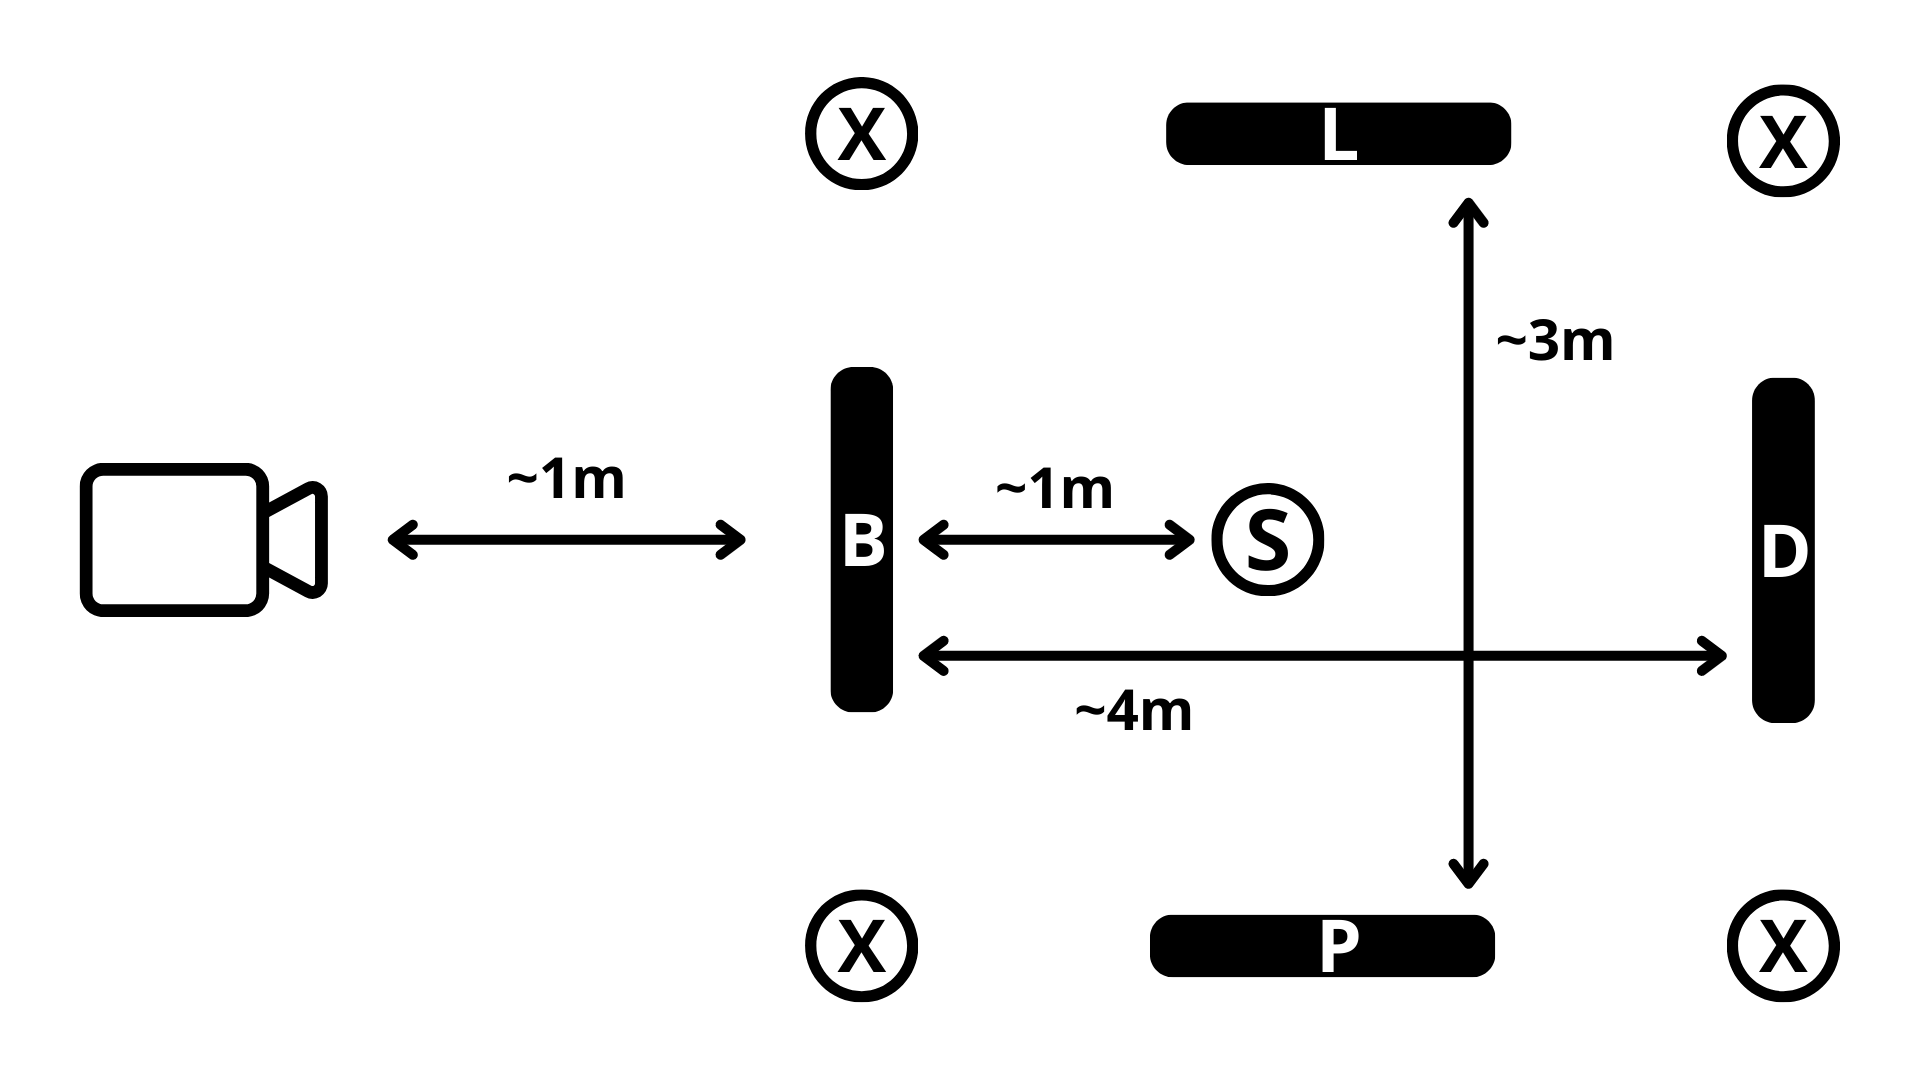
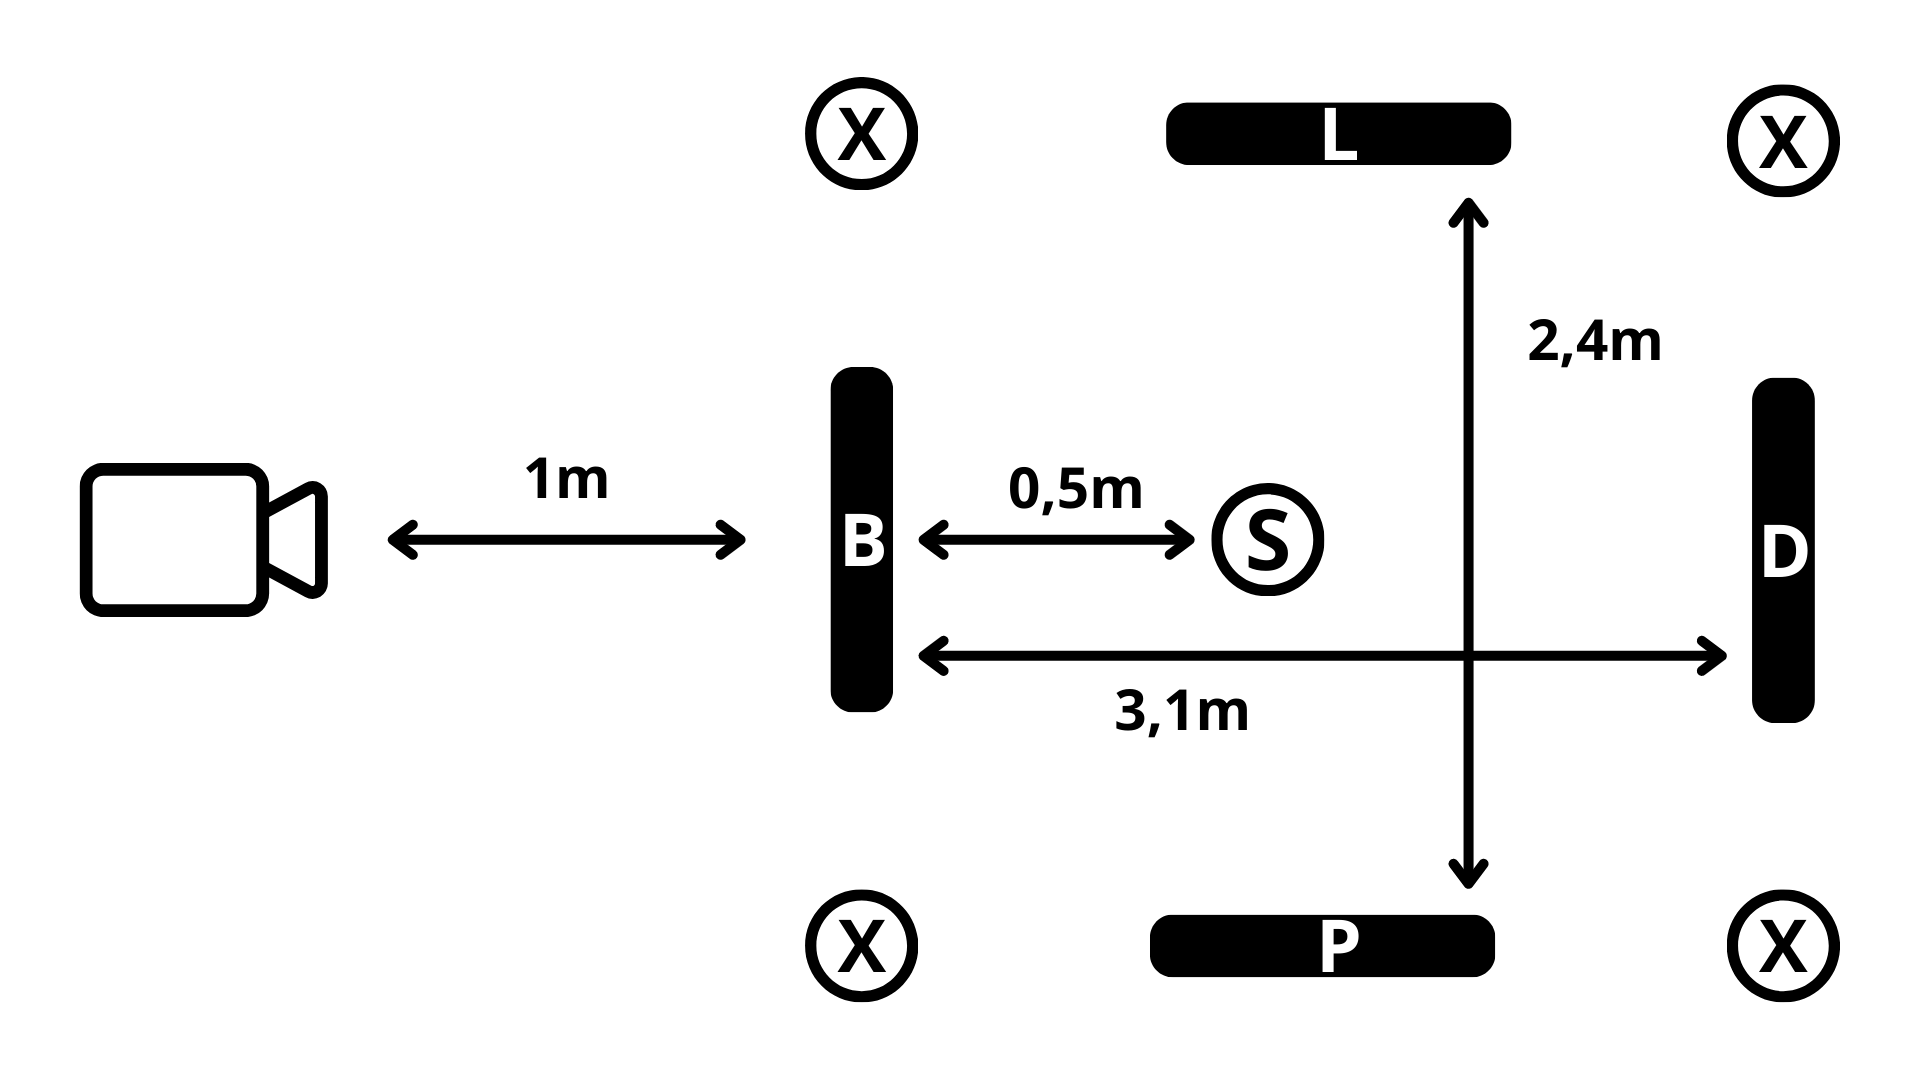
documentation update

diff --git a/lib/measurement_stepper.dart b/lib/measurement_stepper.dart
@@ -72,8 +72,8 @@ class _MeasurementStepperState extends State<MeasurementStepper> {
           collarBoneToFloor,
           'Wpisz odległość od ziemi do obojczyka',
           'Odległość od ziemi do obojczyka [cm]'),
-      _textFieldGenerator(pelvisToFloor, 'Wpisz odległość od ziemi do pasa',
-          'Odległość od ziemi do pasa [cm]'),
+      _textFieldGenerator(pelvisToFloor, 'Wpisz odległość od ziemi do bioder',
+          'Odległość od ziemi do bioder [cm]'),
       Step(
           isActive: rotateScreenVIsited[0],
           state:

diff --git a/lib/library_view.dart b/lib/library_view.dart
@@ -133,7 +133,7 @@ class _LibraryState extends State<Library> {
         }
       }
     }
-
+    print(measurementFiles);
     var sortedByValueMap = Map.fromEntries(measurementFiles.entries.toList()
       ..sort((e1, e2) => DateTime.parse(e2.value!['measurement_time'])
           .compareTo(DateTime.parse(e1.value!['measurement_time']))));

diff --git a/lib/upload_measurement.dart b/lib/upload_measurement.dart
@@ -94,6 +94,7 @@ Future<void> saveToFile(
         ...{"unique_id": uuid},
         ...userInformation,
         ...exerciseVideoMapping,
+        ...{"measurement_time": "${DateTime.now()}"},
         ...{"app_version": appVersion}
       }),
       flush: true);

diff --git a/lib/library_card.dart b/lib/library_card.dart
@@ -38,6 +38,7 @@ class _LibraryCard extends State<LibraryCard> {
     super.initState();
     id = widget.localJsonData['id'];
 
+    print(widget.localJsonData);
     final DateTime date =
         DateTime.parse(widget.localJsonData['measurement_time']);
 

diff --git a/assets/welcome.md b/assets/welcome.md
@@ -1,11 +1,12 @@
 # Aplikacja do zbierania danych Connect 4 Kids
 
-Aplikacja ma na celu umożliwienie zbierania danych w celu przygotowania algorytmu pozwalajacego na zautomatyzowane wykrywania wad postawy.
+Aplikacja ma na celu umożliwienie zbierania danych w celu przygotowania algorytmu pozwalającego na zautomatyzowane wykrywanie wad postawy.
 
 Przygotowane zostały 3 główne ekrany:
-- `Instrukcja` - Ekran na ktorym aktualnie się znajdujesz zawiera informacje o aplikacji oraz dokładny opis procedury wykonywania pomiarów
+- `Instrukcja` - Ekran, na którym aktualnie się znajdujesz zawiera informacje o aplikacji oraz dokładny opis procedury wykonywania pomiarów
 - `Nowy Pomiar` - Główny ekran aplikacji, przeprowadzi Ciebie przez wykonanie pomiaru i wyśle zebrane dane do naszej bazy danych.
-- `Oczekujące` - Ekran zawierający listę niewysłanych pomiarów, wraz z możliwością zapisania i usnięcia ich.
+- `Oczekujące` - Ekran zawierający listę niewysłanych pomiarów, wraz z możliwością zapisania i usunięcia ich.
+
 
 W razie problemów z aplikacją zapraszamy do wypełnienia [formularza](https://forms.gle/2DyxaTooSF3JSwUG7) lub kontaktu z nami pod adresem e-mail: [contact@randomscience.org](mailto:contact@randomscience.org)
 
@@ -15,12 +16,13 @@ Zespół Random Science
 
 ## Przygotowanie stanowiska pomiarowego
 
-Ustaw kamerę tak aby:
+UUstaw kamerę tak, aby:
 - Tło nagrania było jednolite (np. biała ściana)
 - Markery na podłożu były dobrze widoczne
 - Kadr był dobrze i jednolicie oświetlony 
-- Przed kamerą znajdowało się TODO: x na TODO: x wolnego miejsca
-- W kadrze znajdowało się tylko i wyłącznie badane dziecko
+- Przed kamerą znajdowało się 3,1m na 2,4m wolnego miejsca
+- W kadrze znajdowało się wyłącznie badane dziecko
+
  
 Nanieś oznaczenia na podłogę zgodnie z poniższymi schematami:
 - W punktach oznaczonych symbolem *X* umieść markery z taśmy malarskiej w kształcie X o długości ramienia około 20cm. Symbole wspomagają proces analizy wideo
@@ -28,7 +30,8 @@ Nanieś oznaczenia na podłogę zgodnie z poniższymi schematami:
 ![image](resource:assets/setup_plan_simple.png)
 
 - W punktach *B*, *D*, *P* i *L* umieść paski taśmy o długości około 20cm. Symbole te mają na celu oznaczenie punktów startowych i końcowych ruchów dziecka
-- W odległości TODO: odległosc od kamery zaznacz punkt, w którym dziecko wykonywać będzie skłony
+
+- W odległości 1,5m zaznacz punkt, w którym dziecko wykonywać będzie skłony
 
 ![image](resource:assets/setup_plan_a_b.png)
 
@@ -52,7 +55,6 @@ Wykonaj nagranie zawierające w sobie w kolejności:
 > ❗ WAŻNE ❗
 > Włosy dziecka powinny być związane i ułożone tak aby nie zasłaniały ramion
 
-1. Dziecko idące od punktu *L* do *P* (głowa skierowana prosto patrzac przed siebie)
-2. Dziecko idące od punktu *D* do *B* (głowa skierowana prosto patrzac przed siebie)
+1. Dziecko idące od punktu *L* do *P* (głowa skierowana prosto patrząc przed siebie)
+2. Dziecko idące od punktu *D* do *B* (głowa skierowana prosto patrząc przed siebie)
 3. Skłony w punkcie *S* przodem do kamery
-4. Skłony w punkcie *S* tyłem do kamery
